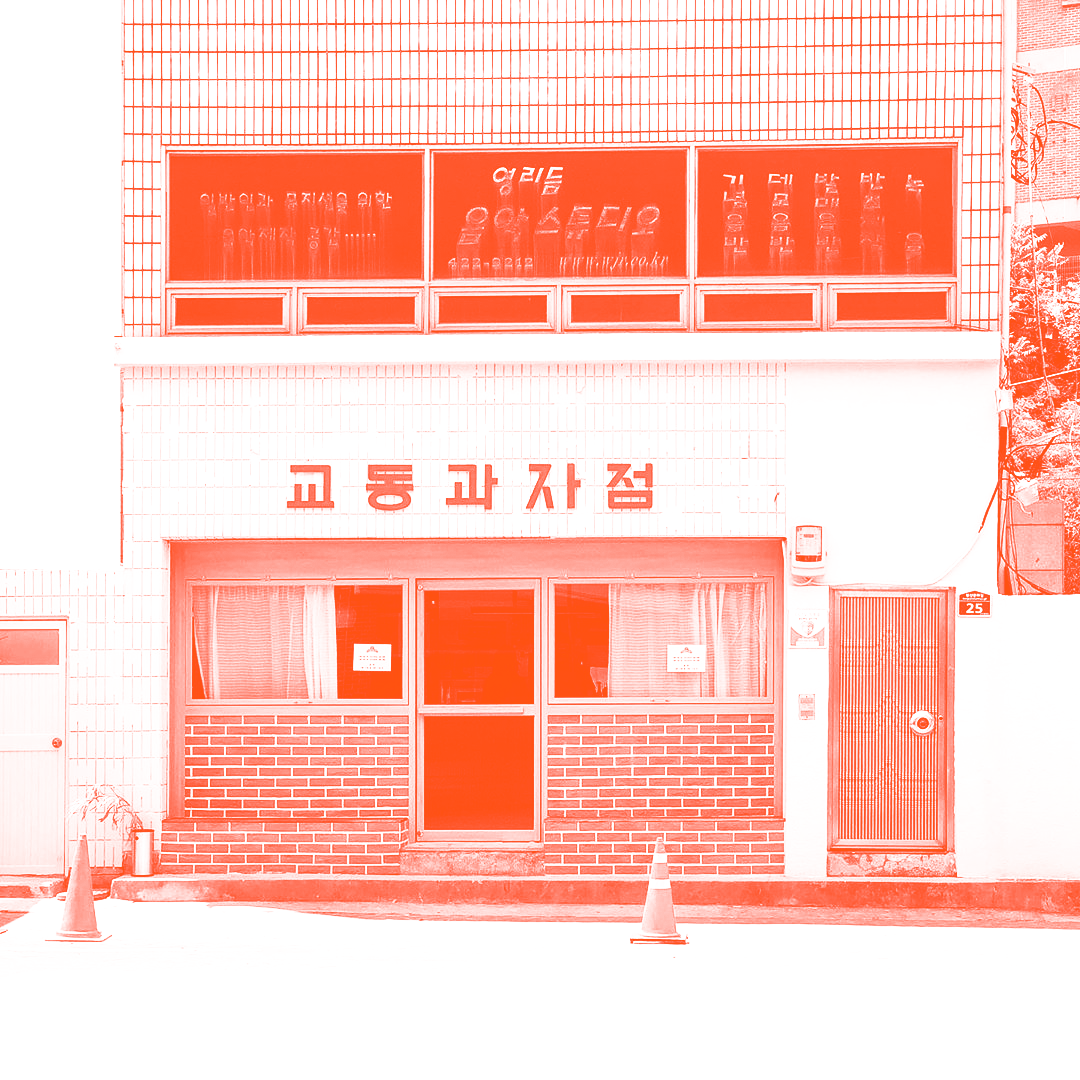
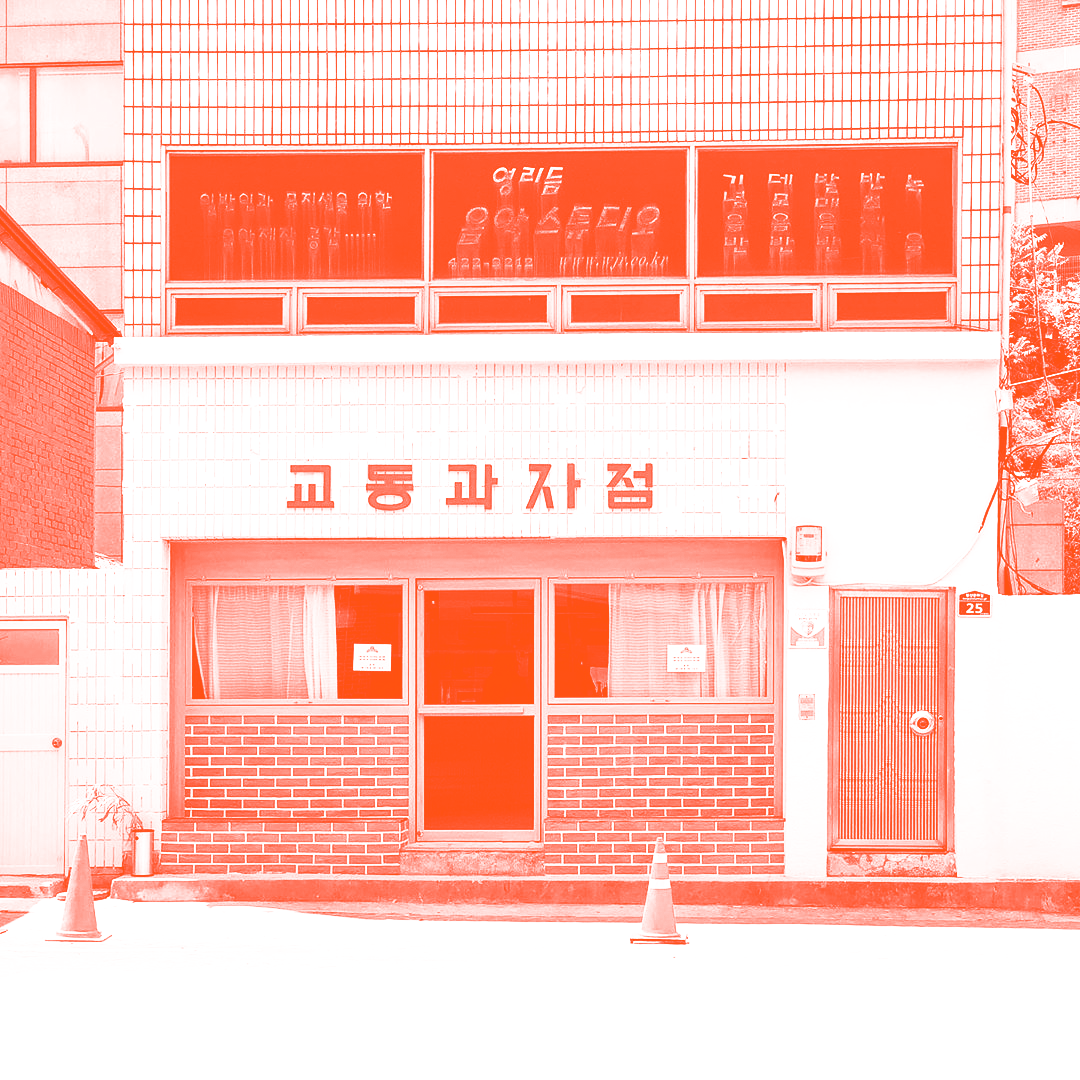
Changed site to greyscale

Changed region(s): [[0.0, 0.0, 0.1222, 0.55]]

diff --git a/thai.html b/thai.html
@@ -6,9 +6,79 @@
     <meta name="viewport" content="width=device-width, initial-scale=1.0">
     <link rel="stylesheet" href="style.css">
     <link rel="stylesheet" href="https://use.typekit.net/znk3swa.css">
-    <title>Singapore Noodles</title>
+    <title>Pad thai</title>
 </head>
 <body>
+
+    <div class="gridrecipe">
+        <div class="block">
+            <h1 style="color: #ff4d06;">PAD THAI</h1>
+                <ul class="ingredients">
+                    <a href="file:///Users/colinbergin/repos/odin-recipes/index.html"><li>Go Back</li></a>
+                    <li>Print</li>
+                    <li>Share</li>
+                </ul>
+
+        </div>
+
     
+        <div class="block">
+            <h1>Recipe</h1>
+            <ol class="steps">
+                <li style="padding-top: 5px;">
+                    Soak the noodles in warm water for about 20 mins or until al dente, then drain. Meanwhile, make the sauce by mixing together the tamarind paste, fish sauce, sugar, lime and siracha until smooth.
+                </li>
+                <li>
+                    Heat half the oil in a frying pan or a wok over a medium heat. Add the garlic and chilli and fry for 30 seconds until fragrant. Tip in the chicken and cook for 5 mins until golden. Add the coriander stalks, spring onions and turnip (if using), and fry for 1 min. Add in the soaked noodles, 50ml of the chicken stock and the prepared sauce. Keep stir-frying the noodles until they’re starting to dry, then add the sauce. Stir everything together and cook over a high heat for 3 mins until the noodles are just cooked. Add a splash more water if needed.
+                </li>
+                <li>
+                    When the sauce has reduced, scatter over the beansprouts and fold them into the noodles. Push everything to one side of the pan, then pour in the rest of the oil on the empty side and crack in the eggs. Fry for 2 mins until the white is just set and beginning to crisp around the edges, then roughly scramble the runny yolks in with the whites. When the eggs have just set, combine with the noodles.
+                    
+                </li>
+                <li style="border-bottom: 0px;">
+                    Scatter over half of the peanuts and quickly toss together. Divide between two plates with the remaining peanuts and spring onion, the lime wedges and soy sauce on the side.
+                </li>
+
+            </ol>
+        </div>
+
+        <div class="block">
+            <h1>Ingredients<h1>
+            <ul class="ingredients">
+                    <li>150g dried flat rice noodles</li>
+                    <li>4 tbsp sunflower oil</li>
+                    <li>   2 garlic cloves, crushed</li>
+                    <li>  1 red chilli, finely chopped</li>
+                    <li> 2 chicken breasts, sliced finely sliced</li>
+                    <li>½ small pack coriander, leaves picked, and stalks finely chopped</li>
+                    <li>60g spring onions, shredded (reserving some to serve)</li>
+                    <li> 2 tbsp chopped pickled turnip (optional)</li>
+                    <li>50ml chicken stock</li>
+                    <li>100g beansprouts</li>
+                    <li>2 eggs</li>
+                    <li>60g roasted unsalted peanuts, chopped</li>
+                    <li>soy sauce, to serve</li>
+                    <li>fresh red chilli, sliced, to serve (optional)</li>
+                    <li>2 tbsp tamarind paste</li>
+                    <li>2 tbsp fish sauce</li>
+                    <li>1 tbsp light brown soft sugar</li>
+                    <li>1 lime, half juiced, half cut into wedges to serve</li>
+                    <li>½ tbsp siracha</li>
+                    <li> pinch chilli powder (optional)</li>
+
+                    
+                </ul>
+        
+        </div>
+
+
+            <div class="image">
+            <img src="images/Bankok.png" alt="A Bankok Shopfront" width="100%" height="auto">
+            </div>
+            
+
+
+    </div>
+  
 </body>
 </html>

diff --git a/singapore.html b/singapore.html
@@ -6,9 +6,70 @@
     <meta name="viewport" content="width=device-width, initial-scale=1.0">
     <link rel="stylesheet" href="style.css">
     <link rel="stylesheet" href="https://use.typekit.net/znk3swa.css">
-    <title>Singapore Noodles</title>
+    <title>Korean Rabokki</title>
 </head>
 <body>
+
+    <div class="gridrecipe">
+        <div class="block">
+            <h1 style="color: #ff4d06;">SINGAPORE STYLE</h1>
+                <ul class="ingredients">
+                    <a href="file:///Users/colinbergin/repos/odin-recipes/index.html"><li>Go Back</li></a>
+                    <li>Print</li>
+                    <li>Share</li>
+                </ul>
+
+        </div>
+
     
+        <div class="block">
+            <h1>Recipe</h1>
+            <ol class="steps">
+                <li style="padding-top: 5px;">
+                    Mix the teriyaki sauce, five-spice and curry powders. Add half to the pork, turning to coat, and leave to marinate for 15 mins.
+                </li>
+                <li>
+                    Heat oven to 200C/180C fan/ gas 6. Remove pork from the marinade and put on a small baking tray lined with foil. Roast for 15-20 mins.
+                </li>
+                <li>
+                    Meanwhile, cook the noodles following pack instructions, but reduce the cooking time by 1 min. Refresh in cold water and drain very well.
+                </li>
+                <li style="border-bottom: 0px;">
+                    Transfer the pork to a chopping board and rest for 5 mins. Set a large non-stick frying pan or wok over a medium-high heat. Add the oil and stir-fry the veg for 3-4 mins. Cut the pork in half lengthways, then thinly slice. Tip into the pan, with the prawns, noodles and remaining marinade. Toss together for 2-3 mins until&nbsphot.
+                </li>
+
+            </ol>
+        </div>
+
+        <div class="block">
+            <h1>Ingredients<h1>
+                <ul class="ingredients">
+                    <li>3 tbsp teriyaki sauce</li>
+                        <li> ½ tsp Chinese five-spice powder</li>
+                            <li>
+                                2 tsp medium Madras curry powder</li>
+                                <li>
+                                    300g/11oz pork tenderloin, trimmed of any fat</li>
+                                    <li>
+                                        140g medium egg noodle</li>
+                                        <li>
+                                            1 tbsp sunflower oil</li>
+                                            <li>
+                                                2 x 300g packs fresh mixed stir-fry vegetables</li>
+                                                <li>
+                                                    100g cooked prawn, thawed if frozen</li>
+                </ul>
+        
+        </div>
+
+
+            <div class="image">
+            <img src="images/image038.png" alt="A Singapore shopfront" width="100%" height="auto">
+            </div>
+            
+
+
+    </div>
+  
 </body>
 </html>

diff --git a/index.html b/index.html
@@ -20,11 +20,15 @@
 
         </div>
         
-        <div class="block">
+        <div class="block" style="overflow: scroll;">
             <h1>history</h1>
-            <video class="rotate" autoplay muted loop play width=auto height="50%"> 
-                <source src="Video/Rotate-min.webm"> 
-            </video>
+            <p>
+                The earliest written record of noodles is found in a book dated to the Eastern Han period (25-220 CE).Noodles made from wheat dough became a prominent food for the people of the Han dynasty. The oldest evidence of noodles was from 4,000 years ago in China. In 2005, a team of archaeologists reported finding an earthenware bowl that contained 4000-year-old noodles at the Lajia archaeological site. These noodles were said to resemble lamian, a type of Chinese noodle. Analyzing the husk phytoliths and starch grains present in the sediment associated with the noodles, they were identified as millet belonging to Panicum miliaceum and Setaria italica. However, other researchers cast doubt that Lajia's noodles were made from specifically millet: it&nbspis difficult to make pure millet noodles, it is unclear whether the analyzed residue were directly derived from Lajia's noodles themselves, starch morphology after cooking shows distinctive alterations that does not fit with Lajia's noodles, and it is uncertain whether the starch-like grains from Laijia's noodles are starch as&nbspthey show some non-starch characteristics.
+            </p>
+            <p style="padding-top: 5px;">
+                Food historians generally estimate that pasta's origin is from among the Mediterranean countries: homogenous mixture of flour and water called itrion as described by 2nd century Greek physician Galen, among 3rd to 5th century Palestinians as itrium as described by the Jerusalem Talmud and as itriyya (Arabic cognate of the Greek word), string-like shapes made of semolina and dried before cooking as defined by the 9th century Aramean physician and lexicographer Isho bar Ali.
+            </p>
+            
         </div>
 
          <div class="block" style="border-right: 0; padding-top: 0px;">

diff --git a/style.css b/style.css
@@ -10,7 +10,7 @@ h1 {
     font-size: 11px;
     margin: 0;
     text-transform: uppercase;
-    animation: fadeIn 1s;
+    
 
 }
 
@@ -30,7 +30,6 @@ ul.ingredients li {
     border-bottom: rgba(0, 255, 255, 0.4);
     border-bottom-width: 1px;
     border-bottom-style: solid;
-    animation: fadeIn 1s;
 
 }
 
@@ -53,6 +52,8 @@ ol.recipes li{
     border-bottom-style: solid;
 }
 
+
+
 ol.steps{
     color: aqua;
     list-style-position: outside;
@@ -72,8 +73,6 @@ ol.steps li{
     border-bottom-style: solid;
     padding-bottom: 10px;
     padding-top: 10px;
-    animation: fadeIn 1s;
-
 }
 
 @keyframes fadeIn {
@@ -148,10 +147,10 @@ p{
     font-size: 12px;
     font-family: nudista-web;
     margin: 0;
-    padding-top: 30px;
+    padding-top: 55px;
     padding-bottom: 15px;
-    padding-right: 0;
-    line-height: 140%;
+    padding-right: 10px;
+    line-height: 120%;
 }
 
 .block{
@@ -161,13 +160,21 @@ p{
     border-right-width: 1px;
     border-right-style: solid;
     min-height: 100vh;
-    animation: fadeIn 2s;
+    max-height: 100vh;
+    scroll-behavior: smooth;
+    -webkit-filter: grayscale(1);
+
 
 }
 
 .image{
-    animation: fadeIn 1s;
+    -webkit-filter: grayscale(1);
 }
 
+::-webkit-scrollbar {
+    width: 0px;
+  }
+
+  
 
 
